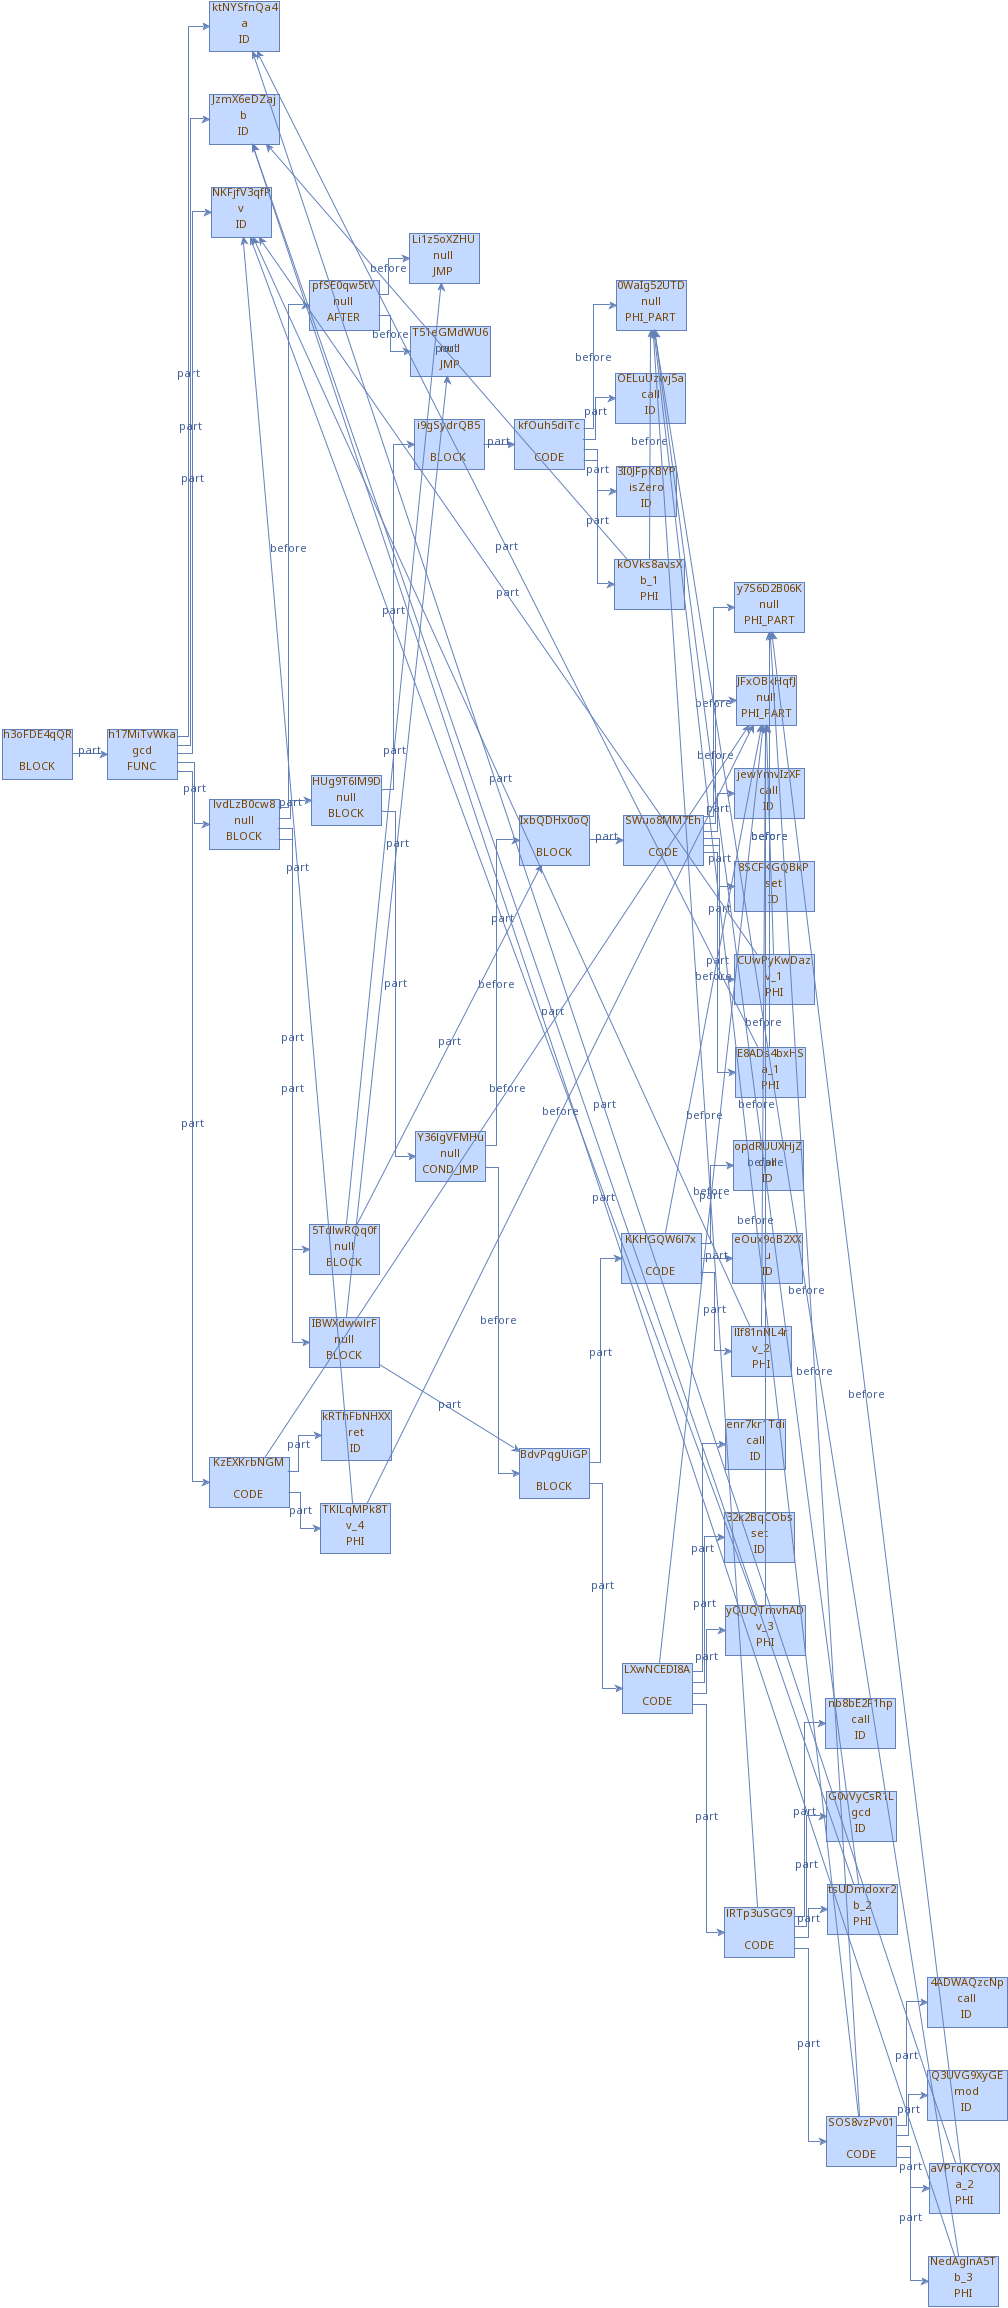
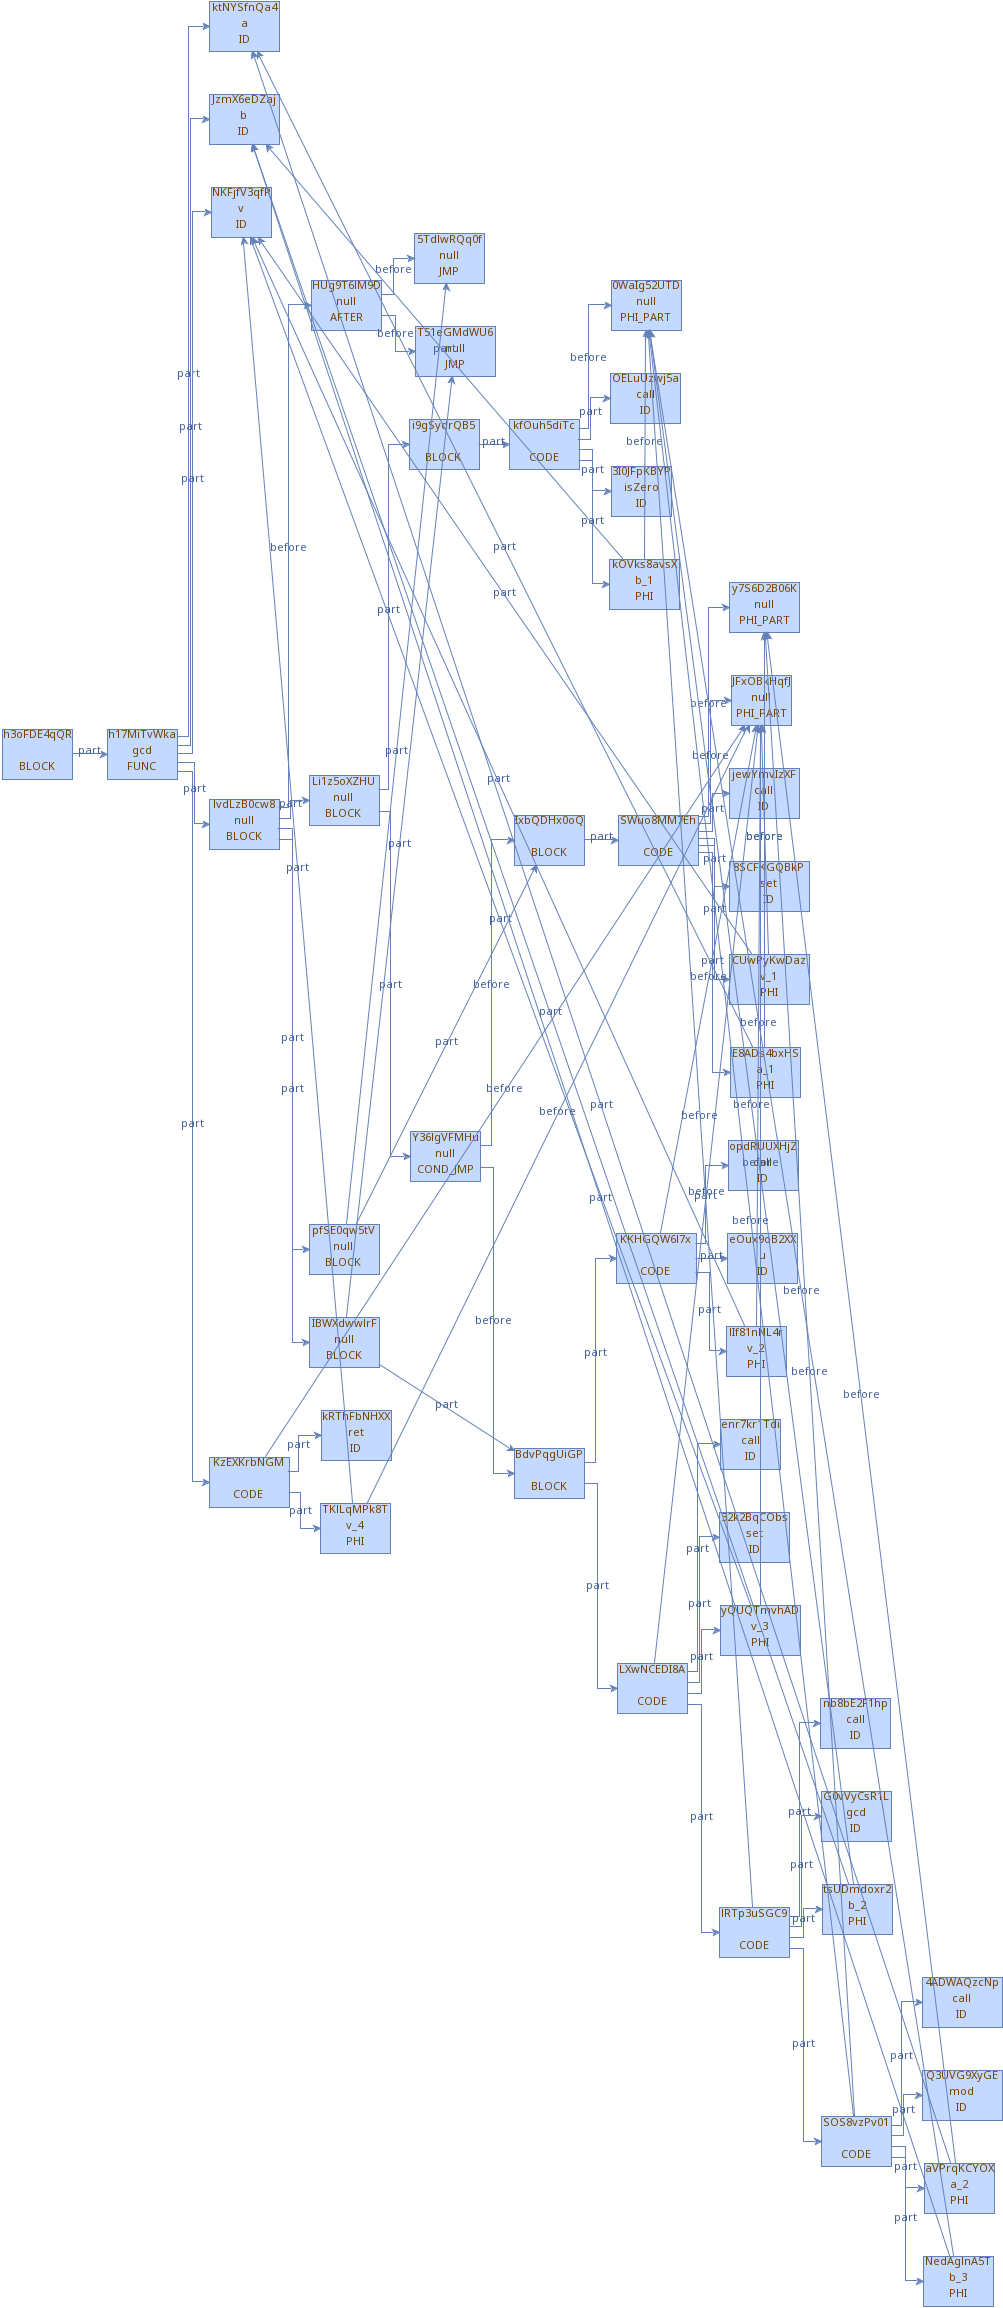
some changes

diff --git a/src/main/java/org/lexasub/IR3/IR3.java b/src/main/java/org/lexasub/IR3/IR3.java
@@ -7,11 +7,11 @@ import java.util.*;
 import java.util.stream.Stream;
 
 public class IR3 {
-    private Type type;
-    private String name;
+    public Type type;
+    public String name;
     private IR3 parent;
-    private LinkedList<IR3> childs = new LinkedList<>();
-    private String blockId;
+    public LinkedList<IR3> childs = new LinkedList<>();
+    public String blockId;
 
     public IR3(Type type) {
         this.type = type;
@@ -32,7 +32,7 @@ public class IR3 {
         } else {
             //System.out.println(i.nodesOut.get(0).type);//TYPE need PHI_PART
             this.type = Type.BLOCK;
-            addChild(transformPhiPart(i)).addChild(new IR3(i, false));
+            modifyPhiPart(i);
         }
 
     }
@@ -46,10 +46,11 @@ public class IR3 {
         if (block.typeIs(FBB.TYPE.BLOCK)) return BlockPart(block);
         if (block.typeIs(FBB.TYPE.FUNC)) return FunctionPart(block);
         if (block.typeIs(FBB.TYPE.CODE)) return CodePart(block);
-        if (block.typeIs(FBB.TYPE.JMP)) return JmpPart(block);//TODO cond_jmp
-        if (block.typeIs(FBB.TYPE.ID)) return new IR3(Type.BLOCK);//TODO
-        if (block.typeIs(FBB.TYPE.PHI)) return new IR3(Type.BLOCK);//TODO
-        if (block.typeIs(FBB.TYPE.COND_JMP)) return new IR3(Type.BLOCK);//TODO
+        if (block.typeIs(FBB.TYPE.JMP)) return JmpPart(block);
+
+        if (block.typeIs(FBB.TYPE.ID)) return new IR3(Type.BLOCK, block.blockId);//TODO
+        if (block.typeIs(FBB.TYPE.PHI)) return new IR3(Type.BLOCK, block.blockId);//TODO
+        if (block.typeIs(FBB.TYPE.COND_JMP)) return new IR3(Type.BLOCK, block.blockId);//TODO
         return null;
     }
 
@@ -92,7 +93,7 @@ public class IR3 {
         //may be having phi in nodesOutChilds and create with phi
         List<IR1> childs = block.nodesOutChilds;
         if (Objects.equals(childs.get(0).name, "call")) {//почти всегда call, else ret
-            return tryCheckSetFunc(childs).orElseGet(() -> modifyUserFunc(childs));
+            return tryCheckSetFunc(childs).orElseGet(() -> modifyCallFunc(childs));
         }
         if (!Objects.equals(childs.get(0).name, "ret")) {
             System.err.println("bad code part");
@@ -107,7 +108,7 @@ public class IR3 {
         return IR3Asm.thenConcat(newBlock, retBlock.addChild(newBlock.getRes()));
     }
 
-    private static IR3 modifyUserFunc(List<IR1> childs) {
+    private static IR3 modifyCallFunc(List<IR1> childs) {
         //else it's userFunc
         // may be TODO force seqence strong
         LinkedList<IR3> argsExt = new LinkedList<>();
@@ -131,15 +132,19 @@ public class IR3 {
         IR3 arg1 = doJob_(childs.get(3));
         //arg0 - PHI
         //arg1 - BLOCK || CODE
+        assert arg1 != null;
         return Optional.of(IR3Asm.thenConcat(arg1, IR3Asm.SET(childs.get(2), arg1.getRes())));
     }
 
-    private IR3 transformPhiPart(IR1 i) {
+    private IR3 modifyPhiPart(IR1 i) {
+        //addChild(new_i).addChild(new IR3(i, false));
         IR1 phiPart = i.nodesOut.get(0);
         IR3 newBlock = new IR3(Type.PHI_PART);
+        newBlock.name = phiPart.name;
+        newBlock.blockId = phiPart.blockId;
         //todo plan for "changing" blockid//linkage from IR1BB to IR3BB
 
-        return newBlock;
+        return this;//newBlock;
     }
 
     public IR3 addChild(IR3 to) {

diff --git a/src/main/java/org/lexasub/IR2/IR2/Parts/IfConvert.java b/src/main/java/org/lexasub/IR2/IR2/Parts/IfConvert.java
@@ -6,7 +6,7 @@ import org.lexasub.frontend.utils.FBB;
 import java.util.Iterator;
 import java.util.LinkedList;
 
-import static org.lexasub.IR1.IR1.connectTo;
+import static org.lexasub.IR1.IR1.connectDependence;
 import static org.lexasub.IR1.IR1.connectToChilds;
 
 public class IfConvert {
@@ -26,13 +26,13 @@ public class IfConvert {
         //3)сгенерить phi-функции после выполнения if(ну и новых переменных создать для phi)
         IR1 ifScope = new IR1();
         IR1 condJmp = new IR1(FBB.TYPE.COND_JMP);
-        ifPart(cond, trueExpr, ir1Block, ifScope, condJmp);
-
-        //; , falseExpr(or endIf))on outer of func
-        if (falseExpr != null) {
-            connectTo(falseExpr, condJmp);
-            ifPartFalseExpr(falseExpr, ifScope);
-        } else connectTo(ifScope.after(), condJmp);
+        ifScope.copyNodesInsFrom(ir1Block);
+        ifCondPart(cond, ifScope, condJmp);
+        IR1 endIf = ifScope.after();
+        ifJumper(trueExpr, ifScope, condJmp, endIf);
+        if (falseExpr != null) //check exist of else(falseExpr)
+            ifJumper(falseExpr, ifScope, condJmp, endIf);
+        else connectDependence(endIf, condJmp);
         return ifScope;
         //end_if:
         //ifScope.add(phi's)
@@ -48,30 +48,23 @@ public class IfConvert {
         */
     }
 
-    private static void ifPartFalseExpr(IR1 falseExpr, IR1 ifScope) {
-        IR1 jmp = new IR1(FBB.TYPE.JMP);
-        IR1 falseScope = new IR1();
-        connectToChilds(falseExpr, falseScope);
-        connectToChilds(jmp, falseScope);//jmp to ...
-        connectTo(jmp, ifScope.after());//jmp to ...
-        connectToChilds(falseScope, ifScope);
+    private static void ifCondPart(IR1 cond, IR1 ifScope, IR1 condJmp) {
+        IR1 condScope = new IR1();
+        //condJmp.add(cond_res//TODO
+        connectToChilds(cond, condScope);
+        connectToChilds(condJmp, condScope);//jump - is last element of block
+        connectToChilds(condScope, ifScope);
     }
 
-    private static void ifPart(IR1 cond, IR1 trueExpr, IR1 ir1Block, IR1 ifScope, IR1 condJmp) {
+    private static void ifJumper(IR1 body, IR1 ifScope, IR1 condJmp, IR1 endIf) {
         IR1 jmp = new IR1(FBB.TYPE.JMP);
-        IR1 trueScope = new IR1();
-        IR1 condScope = new IR1();
-        connectToChilds(cond, condScope);
-        //condJmp.add(cond_res//TODO
-        //trueExpr
-        connectTo(trueExpr, condJmp);
-        //; , falseExpr(or endIf))on outer of func
-        connectToChilds(condJmp, condScope);
-        connectToChilds(trueExpr, trueScope);
-        connectToChilds(jmp, trueScope);//jmp to ...
-        connectTo(jmp, ifScope.after());//jmp to ...
-        ifScope.copyNodesInsFrom(ir1Block);
-        connectToChilds(condScope, ifScope);
-        connectToChilds(trueScope, ifScope);
+        connectDependence(jmp, endIf);//jump to ...
+        IR1 localScope = new IR1();
+        //body
+        connectDependence(body, condJmp);
+        connectToChilds(body, localScope);
+        connectToChilds(jmp, localScope);//add jump code//jump - is last of block
+        connectToChilds(localScope, ifScope);
     }
+
 }

diff --git a/src/main/java/org/lexasub/IR3/IR3IO.java b/src/main/java/org/lexasub/IR3/IR3IO.java
@@ -1,0 +1,44 @@
+package org.lexasub.IR3;
+
+import java.util.function.BiFunction;
+
+public class IR3IO {
+    public static boolean jsonize = false;
+
+    private static String r(String a) {
+        return (jsonize) ? ('"' + a + '"') : a;
+    }
+    private static StringBuilder append(StringBuilder sb, String t, String str) {
+        return sb.append(t.concat(str));
+    }
+
+    public static void dump(IR3 ll){
+        StringBuilder sb = new StringBuilder();
+        dump("", sb, ll);
+        System.out.println(sb);
+    }
+    private static void dump(String t, StringBuilder sb, IR3 ll) {
+        BiFunction<String, String, StringBuilder> v = (String a, String b) ->
+                append(sb, t, r(a) + ":" + r(b) + ((jsonize) ? "," : "") + "\n");
+        if (jsonize) append(sb, t, "{" + "\n");
+        v.apply("name", ll.name);
+        v.apply("blockId", ll.blockId);
+        v.apply("type", String.valueOf(ll.type));
+        // v.apply("parent:" + ((parent == null) ? null : parent.getBlockId()));
+        if (!ll.childs.isEmpty()) {
+            if (jsonize)
+                append(sb, t, "\"childs\":[\n");
+            else
+                append(sb, t, "childs:{\n");
+            ll.childs.forEach(i -> dump(t + "\t", sb, i));
+            if (jsonize) append(sb, t, "\t" + "{}" + "\n");
+            append(sb, t, ((jsonize) ? "]" : "}") + "\n");
+        } else {
+            if (jsonize)
+                append(sb, t, "\"childs\":{}\n");
+            else
+                append(sb, t, "childs:{}\n");
+        }
+        if (jsonize) append(sb, t, "}" + "," + "\n");
+    }
+}

diff --git a/src/main/java/org/lexasub/IR2/IR2/IR2.java b/src/main/java/org/lexasub/IR2/IR2/IR2.java
@@ -8,7 +8,7 @@ import java.util.LinkedList;
 import java.util.ListIterator;
 import java.util.Objects;
 
-import static org.lexasub.IR1.IR1.connectTo;
+import static org.lexasub.IR1.IR1.connectDependence;
 
 public class IR2 {
     public IR1 block;
@@ -86,13 +86,13 @@ public class IR2 {
 
         ch.nodesOutChilds.set(ch.nodesOutChilds.indexOf(idNode), phi);
         phi.nodesInParents.add(ch);
-        connectTo(phiPart, ch);
+        connectDependence(phiPart, ch);
 
         idNode.nodesInParents.set(id, phi);
         phi.nodesOutChilds.add(idNode);
         /*idNode.nodesInParents.remove(id);
         connectTo(phi, idNode);*/
-        connectTo(phiPart, phi);
+        connectDependence(phiPart, phi);
 
     }
 

diff --git a/src/main/java/org/lexasub/IR1/IR1.java b/src/main/java/org/lexasub/IR1/IR1.java
@@ -37,7 +37,7 @@ public class IR1 {
 
     public IR1(FBB.TYPE afterOrBefore, IR1 block) {
         type = afterOrBefore;
-        connectTo(this, block);
+        connectDependence(this, block);
     }
 
     public static IR1 makeFromFBB(FBB frontendBlock) {
@@ -128,7 +128,7 @@ public class IR1 {
         to.nodesInParents.add(from);
     }
 
-    public static void connectTo(IR1 to, IR1 from) {
+    public static void connectDependence(IR1 to, IR1 from) {
         from.nodesOut.add(to);
         to.nodesIn.add(from);
     }

diff --git a/src/main/java/org/lexasub/IR3/IO.java b/src/main/java/org/lexasub/IR3/IO.java
@@ -14,6 +14,8 @@ public class IO {
     public static void main(String[] args) throws IOException {
         IR1 ir1Block = makeFromFBB(FBBView.visit(FBBView.getParser("test")));
         IR3 ll = IR3.doJob(IR2.doJob(ir1Block));
+        IR3IO.jsonize = true;
+        IR3IO.dump(ll);
         System.out.println("s");
     }
 
